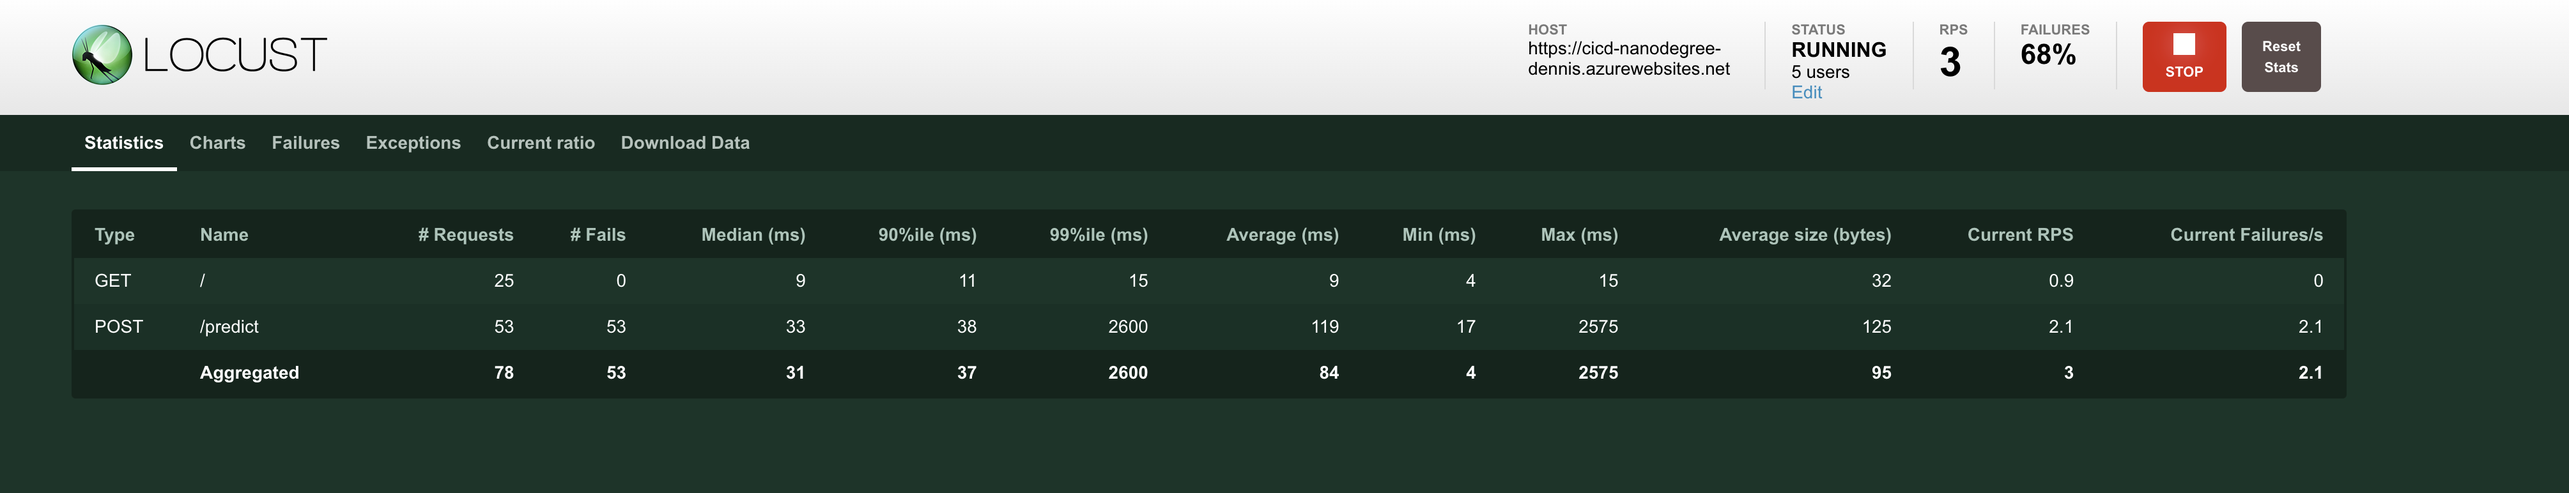
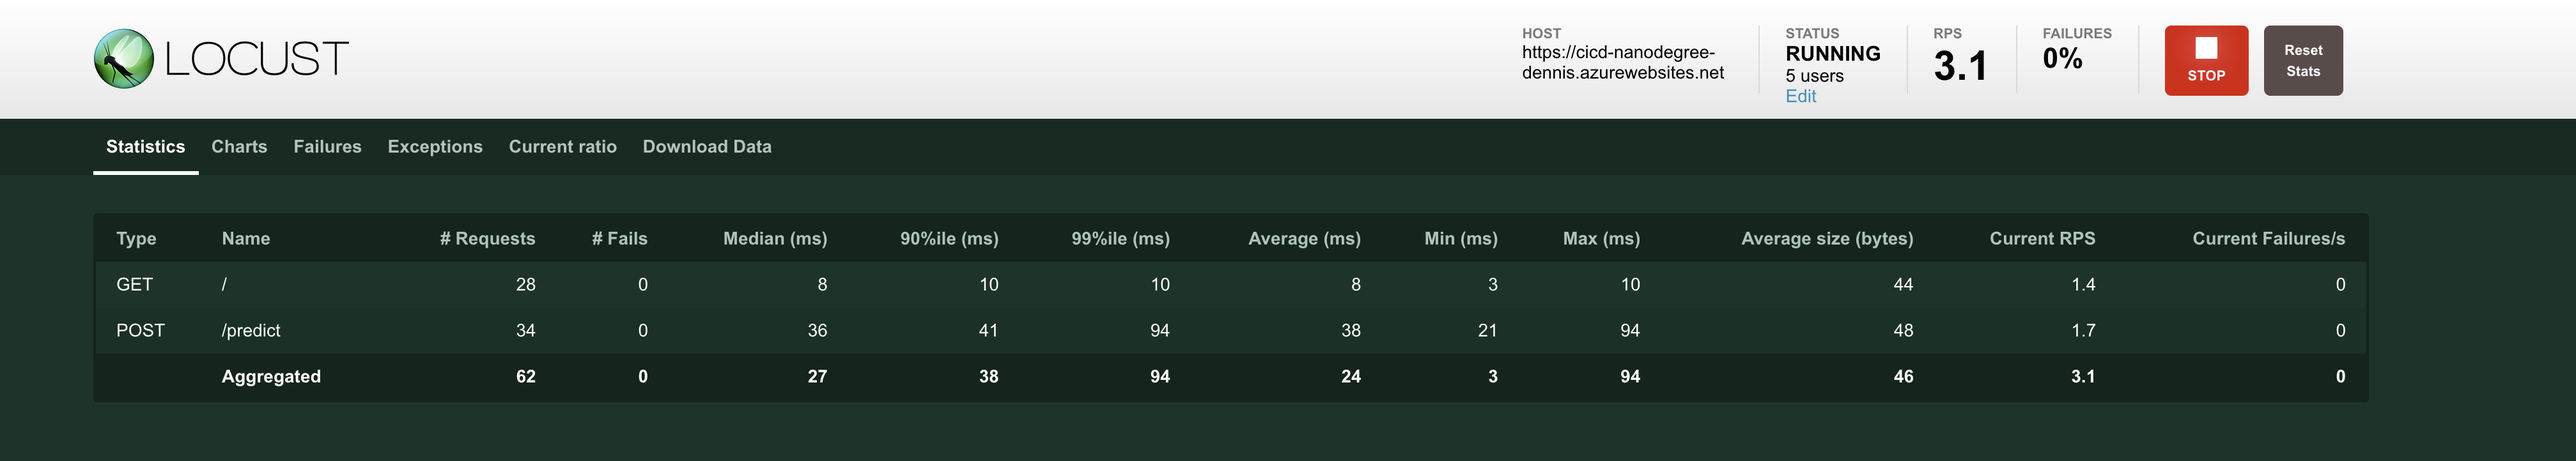
update locust

diff --git a/locustfile.py b/locustfile.py
@@ -9,4 +9,13 @@ class WebsiteTestUser(HttpUser):
 
     @task(2)
     def test2(self):
-        self.client.post("http://localhost:5000/predict")
+        self.client.post("http://localhost:5000/predict",json=
+            {
+            "CHAS": {"0": 0}, 
+            "RM": {"0": 6.575}, 
+            "TAX": {"0": 296.0}, 
+            "PTRATIO": {"0": 15.3}, 
+            "B": {"0": 396.9},
+            "LSTAT": {"0": 4.98}
+        })
+        
